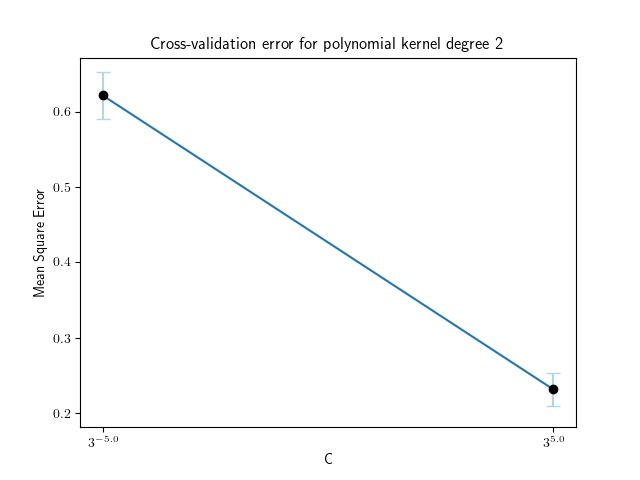
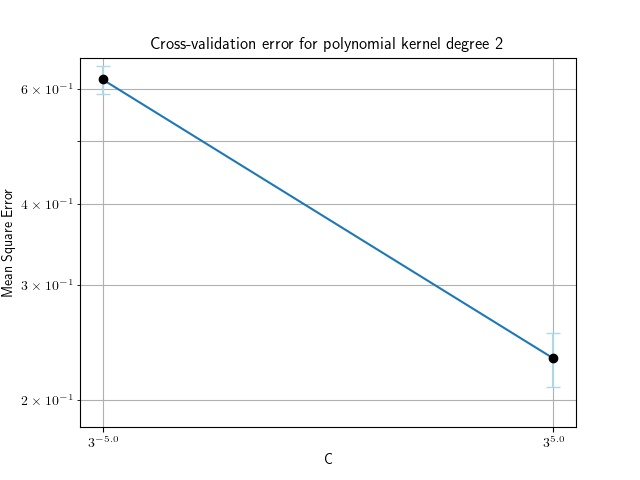
support question 3,4,5

diff --git a/main.py b/main.py
@@ -15,9 +15,52 @@ parser.add_argument("--num_disjoint", type=int, default=5,
               help="Number of epoch to train")
 args = parser.parse_args()
 
+def question3(train, test):
+  #global c_range
+  c_range = np.linspace(-5, 20, 8)
+  #c_range = np.linspace(-5, 5, 2)
+  #C = 3** np.linspace(2, 15, 10) 
+  #C = 3** np.linspace(-5, 20, 5)
+  C = 3** c_range
+  
+  #print(C)
+  degree = [1, 2, 3, 4, 5]
+  #degree = [2]
+  #degree = [1, 2]
+  mse = {}
+  dataloader = data_utils.split_data(train, args.num_disjoint)
+  loss = np.inf
+  best_param = {"degree": None, "C": None}
+  for d_param in degree:
+    mse[d_param] = {}
+    for c_param in C:
+      cross_val = []
+      acc_val = []
+      for split_train in dataloader:
+        train_data = split_train["train"]
+        val_data = split_train["val"]
+        options = f"-c {c_param} -d {d_param} -t 1 -q"
+        m = svm_train(train_data["labels"], train_data["features"], options)
+        p_label, p_acc, p_val = svm_predict(val_data["labels"], val_data['features'], m, "-q")
+        cross_val.append(p_acc[1])
+        acc_val.append(p_acc[0])
+        if loss > p_acc[1]:
+          loss = p_acc[1] 
+          best_param["degree"] = d_param
+          best_param["C"] = c_param
+      #print(c_param, p_acc[1])
+      cross_val = np.array(cross_val)
+      acc_val = np.array(acc_val)
+      mse[d_param][c_param] = {"mean": np.mean(cross_val), 
+                               "std": np.std(cross_val),
+                               "acc": np.mean(acc_val)}
+
+  visualized_utils.plot3(mse, c_range)
+  return best_param
+
 def question4(train, test, best_param):
   best_c = best_param['C']
-  degree = range(1, 4)
+  degree = range(1, 11)
   #degree = [1, 2]
   train_mse, test_mse = {}, {}
   dataloader = data_utils.split_data(train, args.num_disjoint)
@@ -58,65 +101,39 @@ def question4(train, test, best_param):
     train_mse[d_param] = {"mean": np.mean(cross_val), 
                     "std": np.std(cross_val),
                     "acc": np.mean(acc_val),
-                    "num_support_vec": np.mean(num_support_vec)}
+                    "num_support_vec": np.mean(num_support_vec),
+                    "std_support_vec": np.std(num_support_vec)}
     test_mse[d_param] = {"mean": np.mean(test_val), 
                     "std": np.std(test_val),
                     "acc": np.mean(acc_test)}
-    print(np.mean(num_support_vec))
-  print(best_param)
-  print('domme')
+
   visualized_utils.plot4(train_mse, test_mse, degree)
-  exit()
-
-def question3(train, test):
-  #global c_range
-  #c_range = np.linspace(-5, 20, 8)
-  c_range = np.linspace(-5, 5, 2)
-  #C = 3** np.linspace(2, 15, 10) 
-  #C = 3** np.linspace(-5, 20, 5)
-  C = 3** c_range
-  
-  #print(C)
-  #degree = [1, 2, 3, 4, 5]
-  degree = [2]
-  #degree = [1, 2]
-  mse = {}
-  dataloader = data_utils.split_data(train, args.num_disjoint)
-  loss = np.inf
-  best_param = {"degree": None, "C": None}
-  for d_param in degree:
-    mse[d_param] = {}
-    for c_param in C:
-      cross_val = []
-      acc_val = []
-      for split_train in dataloader:
-        train_data = split_train["train"]
-        val_data = split_train["val"]
-        options = f"-c {c_param} -d {d_param} -t 1 -q"
-        m = svm_train(train_data["labels"], train_data["features"], options)
-        p_label, p_acc, p_val = svm_predict(val_data["labels"], val_data['features'], m, "-q")
-        cross_val.append(p_acc[1])
-        acc_val.append(p_acc[0])
-        if loss > p_acc[1]:
-          loss = p_acc[1] 
-          best_param["degree"] = d_param
-          best_param["C"] = c_param
-      #print(c_param, p_acc[1])
-      cross_val = np.array(cross_val)
-      acc_val = np.array(acc_val)
-      mse[d_param][c_param] = {"mean": np.mean(cross_val), 
-                               "std": np.std(cross_val),
-                               "acc": np.mean(acc_val)}
-
-  visualized_utils.plot3(mse, c_range)
   return best_param
+  
+def question5(train, test, best_param):
+  all_num_dataset = range(train["features"].shape[1], train["features"].shape[0], 300)
+  train_mse, test_mse = {}, {}
+  for num_dataset in all_num_dataset:
+    train_data = data_utils.filter_data(train, num_dataset=num_dataset)
+    options = f"-r {best_param['C']} -d {best_param['degree']} -t 1 -q"
+    m = svm_train(train_data["labels"], train_data["features"], options)
+    _, p_acc, _ = svm_predict(train_data["labels"], train_data['features'], m, "-q")
 
-#def question3_2():
+    train_mse[num_dataset] = {"errors": p_acc[1], 
+                              "acc": p_acc[0]}
 
+    _, p_acc, _ = svm_predict(test["labels"], test['features'], m, "-q")
+    test_mse[num_dataset] = {"errors": p_acc[1], 
+                              "acc": p_acc[0]}
+  
+  visualized_utils.plot5(train_mse, test_mse, best_param, all_num_dataset)
+
+  
 def main():
   train, test = data_utils.read_data()
   best_param = question3(train, test)
-  question4(train, test, best_param)
+  best_param = question4(train, test, best_param)
+  question5(train, test, best_param)
 
 if __name__ == "__main__":
   sys.excepthook = utils.colored_hook(os.path.dirname(os.path.realpath(__file__)))

diff --git a/utils/visualized_utils.py b/utils/visualized_utils.py
@@ -23,6 +23,8 @@ def plot3(mean, c_range):
     plt.ylabel(r"Mean Square Error")
     plt.title(r"Cross-validation error for polynomial kernel degree {}".format(degree))
     plt.xticks(x, xtick_label)
+    plt.yscale("log")
+    plt.grid(True, which="both", ls="-")
     plt.savefig(os.path.join(folder, f"degree_{degree}.jpg"))
     plt.clf()
 
@@ -31,12 +33,14 @@ def plot4(train_error, test_error, degree):
   if not os.path.exists(folder): os.mkdir(folder)
   xtick_label = [r"$%s$" %str(val) for val in degree]
   for i, data_typ in enumerate([train_error, test_error]):
-    y, e, num = [], [], []
+    y, e, num, e_num = [], [], [], []
     for degree in data_typ.keys():
       all_mean = data_typ[degree]
       y.append(all_mean["mean"])
       e.append(all_mean["std"])
-      num.append(all_mean["num_support_vec"])
+      if i ==0:
+        num.append(all_mean["num_support_vec"])
+        e_num.append(all_mean["std_support_vec"])
     x = np.arange(1, len(y)+1)
     plt.errorbar(x, y, e, fmt = 'o', color = 'black', 
               linestyle='None', ecolor = 'lightblue',
@@ -46,13 +50,52 @@ def plot4(train_error, test_error, degree):
     plt.xlabel(r"Degree")
     plt.ylabel(r"Mean Square Error")
     if i == 0:
-      plt.title(r"Cross-validation error for polynomial kernel degree {}".format(degree))
+      plt.title(r"Cross-validation error for polynomial kernel")
       im_path = f"train.jpg"
     elif i == 1:
-      plt.title(r"Test error for polynomial kernel degree {}".format(degree))
+      plt.title(r"Test error for polynomial kernel")
       im_path = f"test.jpg"
     plt.xticks(x, xtick_label)
+    
+    plt.yscale("log")
+    plt.grid(True, which="both", ls="-")
     plt.savefig(os.path.join(folder, im_path))
     plt.clf()
+    if i == 0:
+      plt.errorbar(x, num, e_num, fmt = 'o', color = 'black', 
+              linestyle='None', ecolor = 'lightblue',
+              capsize=5)
+      plt.plot(x, num)
+      plt.xlabel(r"Degree")
+      plt.ylabel(r"Mean Square Error")
+      plt.title(r"Number of suppport vectors for polynomial kernel")
+      im_path = f"support.jpg"
+      plt.xticks(x, xtick_label)
+      plt.savefig(os.path.join(folder, im_path))
+      plt.clf()
 
+def plot5(train_error, test_error, best_param, all_num_dataset):
+  folder = "./plot_question5"
+  if not os.path.exists(folder): os.mkdir(folder)
+  xtick_label = [r"$%s$" %str(val) for val in all_num_dataset]
+  for i, data_typ in enumerate([train_error, test_error]):
+    y = []
+    for num_dataset in data_typ.keys():
+      all_mean = data_typ[num_dataset]
+      y.append(all_mean["errors"])
 
+    x = np.arange(1, len(y)+1)
+    plt.plot(x, y)
+    plt.xlabel(r"Number of training samples")
+    plt.ylabel(r"Mean Square Error")
+    if i == 0:
+      plt.title(r"Training error for polynomial kernel when C = {}, degree = {}".format(str(best_param["C"]), str(best_param["degree"])))
+      im_path = f"train.jpg"
+    elif i == 1:
+      plt.title(r"Test error for polynomial kernel when C = {}, degree = {}".format(str(best_param["C"]), str(best_param["degree"])))
+      im_path = f"test.jpg"
+    plt.xticks(x, xtick_label)
+    plt.yscale("log")
+    plt.grid(True, which="both", ls="-")
+    plt.savefig(os.path.join(folder, im_path))
+    plt.clf()

diff --git a/utils/data_utils.py b/utils/data_utils.py
@@ -7,7 +7,6 @@ import sys
 def read_data():
   # reading csv files
   data =  pd.read_csv('./data/abalone.data').to_numpy()
-  
   gender2vec = np.array([[1., 0., 0.]]) * (data[:, :1] == "M").astype(np.float32) + \
                np.array([[0., 1., 0.]]) * (data[:, :1] == "I").astype(np.float32) + \
                np.array([[0., 0., 1.]]) * (data[:, :1] == "F").astype(np.float32) 
@@ -67,3 +66,8 @@ def split_data(data, num_disjoint):
     split.append(out)
  
   return split 
+
+def filter_data(data, num_dataset=None):
+  sel_idx = np.random.randint(0, data["features"].shape[0], num_dataset)
+  return {"features": data["features"][sel_idx],
+          "labels": data["labels"][sel_idx]}
